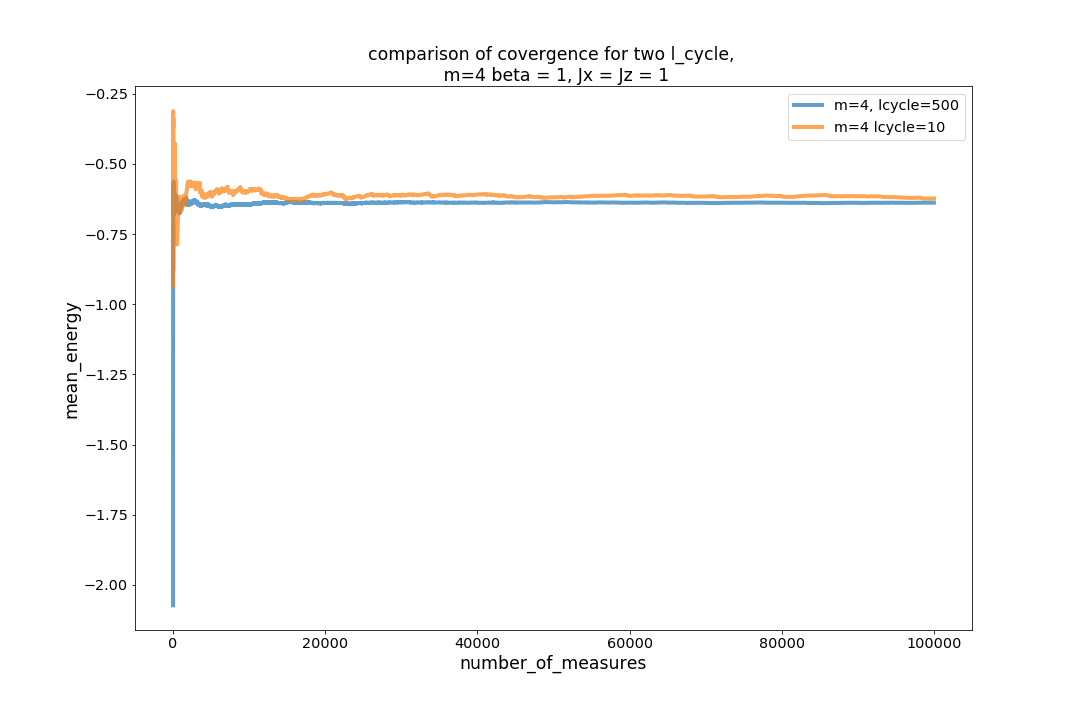
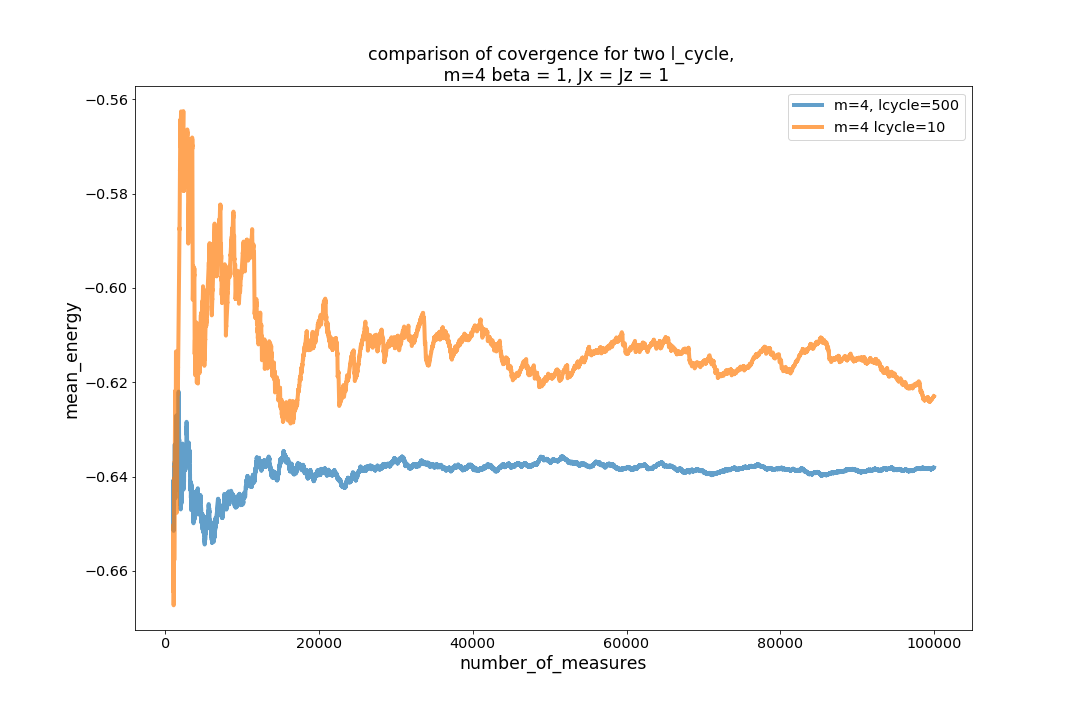
final

diff --git a/report/rapport.tex b/report/rapport.tex
@@ -172,14 +172,24 @@
 	\item[]Energy for m=3: -0.6387051296013677 +/- 0.002749339051345642
 	\item[]Energy for m=4: -0.6380826437580377 +/- 0.0028694731132348273
 	\end{itemize}
-		 
+		 We  can compare the evolution of the mean energy for the two different length cycle
+		 	\begin{figure}[!h]
+		 	\centering
+		 	
+		 	\includegraphics[scale=0.4]{lcyclecomp.png}
+		 	
+		 	
+		 \end{figure}
 
 
 
 	
 	\subsection{limits}
 	Several problems remains with this algorithm. Firstly as we have seen, it can only works on open border condition.
-	Moreover i
+	Moreover It get very expensive to compute this Monte Carlo algorithm when we are not in the proper condition. Indeed the the weight to do a kink is proportional to $\sinh^2(\Delta\tau \frac{Jx}{2})$. Consequently when $\beta$ gets smaller or m bigger, the moves proposed are mostly rejected, and the Monte Carlo becomes highly inefficient 
+	Unfortunately to get precise results we need to make m big and so $\Delta\tau$ small. 
+	To conclude this idea only works for low precision estimation and high $\beta$.
+	
 
 
 
